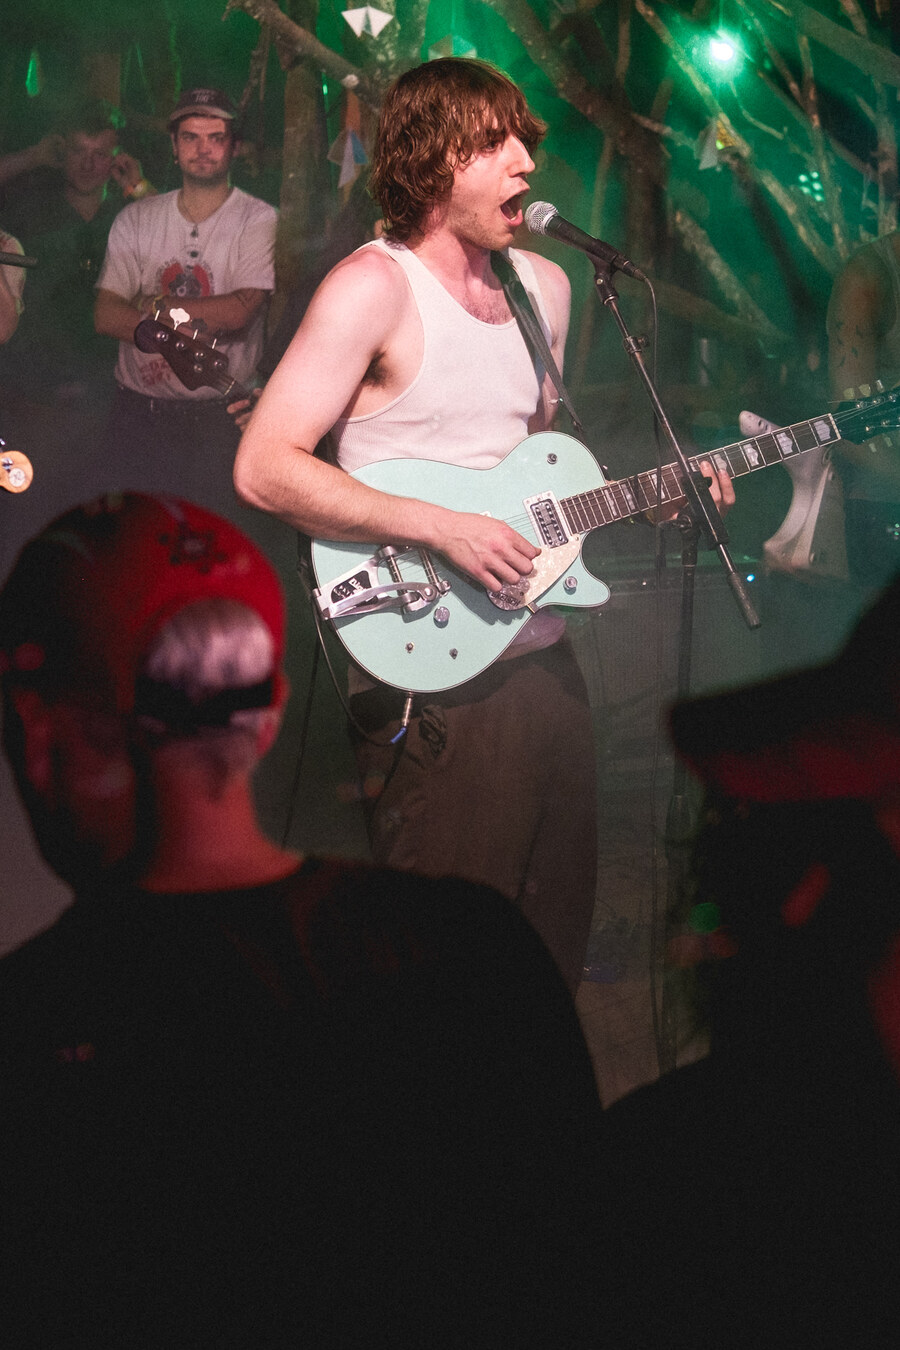
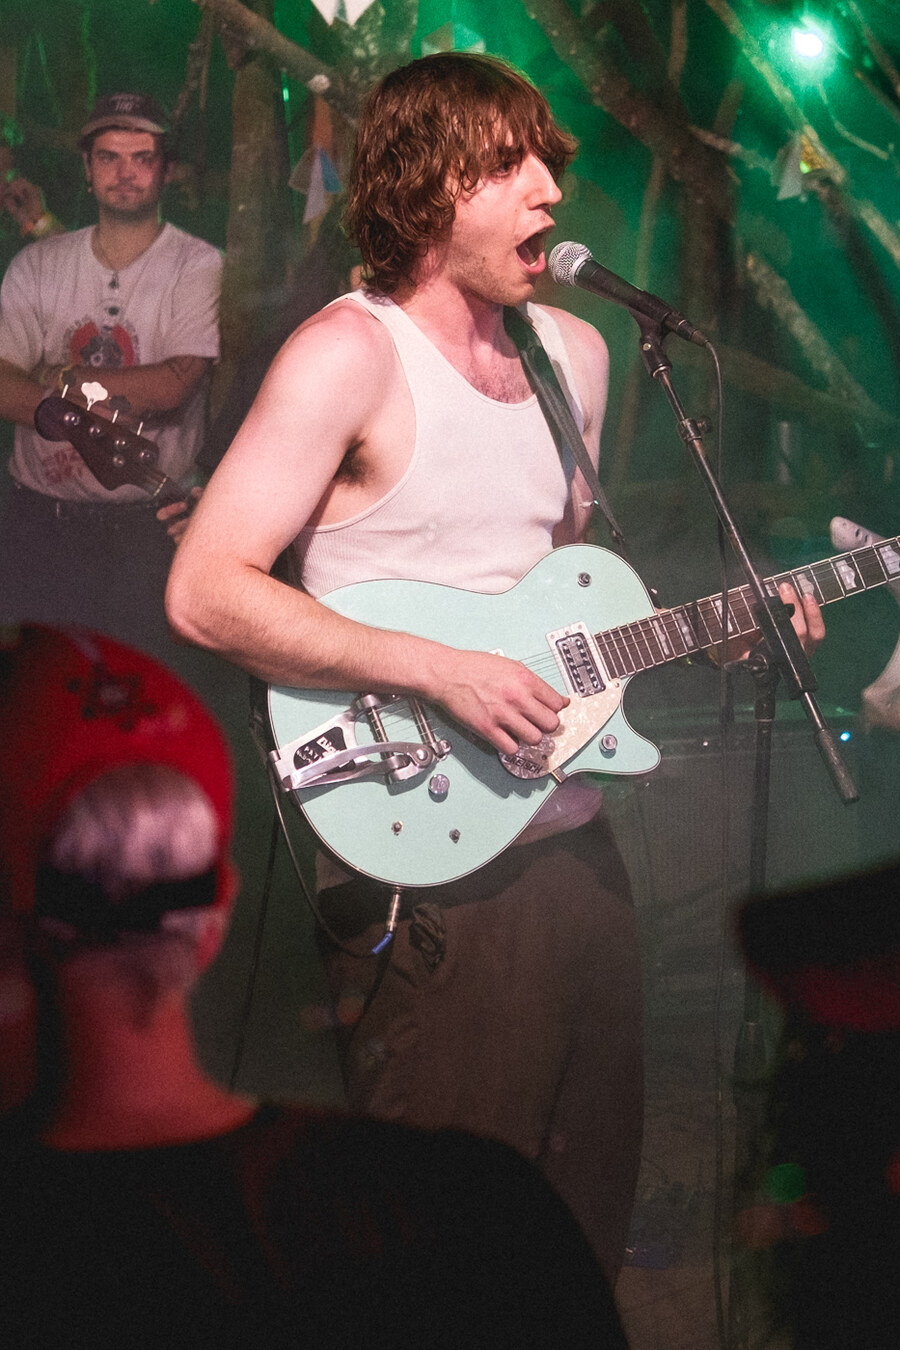
2024 preview: closer zoom on the singer
Claude-Session: https://claude.ai/code/session_01SpBvcN5P13erhr58dKS5yX

diff --git a/sw.js b/sw.js
@@ -1,5 +1,5 @@
 // Pickathon service worker. Build 20261105-1230
-const V='pk-20261105-3538',M='pkmedia-3',KEEP=["ssindex-b6158b1d.json"],SHELL=['./','index.html','data.json','focus.json','focus.js','manifest.json','icon-192.png','apple-touch-icon.png','fonts/pickathon-2014.ttf','farmmap/index.html?embed=1','farmmap/lab-phone.html?embed=1'];
+const V='pk-20261105-3539',M='pkmedia-3',KEEP=["ssindex-b6158b1d.json"],SHELL=['./','index.html','data.json','focus.json','focus.js','manifest.json','icon-192.png','apple-touch-icon.png','fonts/pickathon-2014.ttf','farmmap/index.html?embed=1','farmmap/lab-phone.html?embed=1'];
 const MP='pkmap-1';
 const fl=new Map();/* one network request per URL at a time (icons are asked for twice by the page) */
 const once=(k,f)=>{let p=fl.get(k);if(!p){p=f().finally(()=>fl.delete(k));fl.set(k,p)}return p.then(x=>x.clone())};
